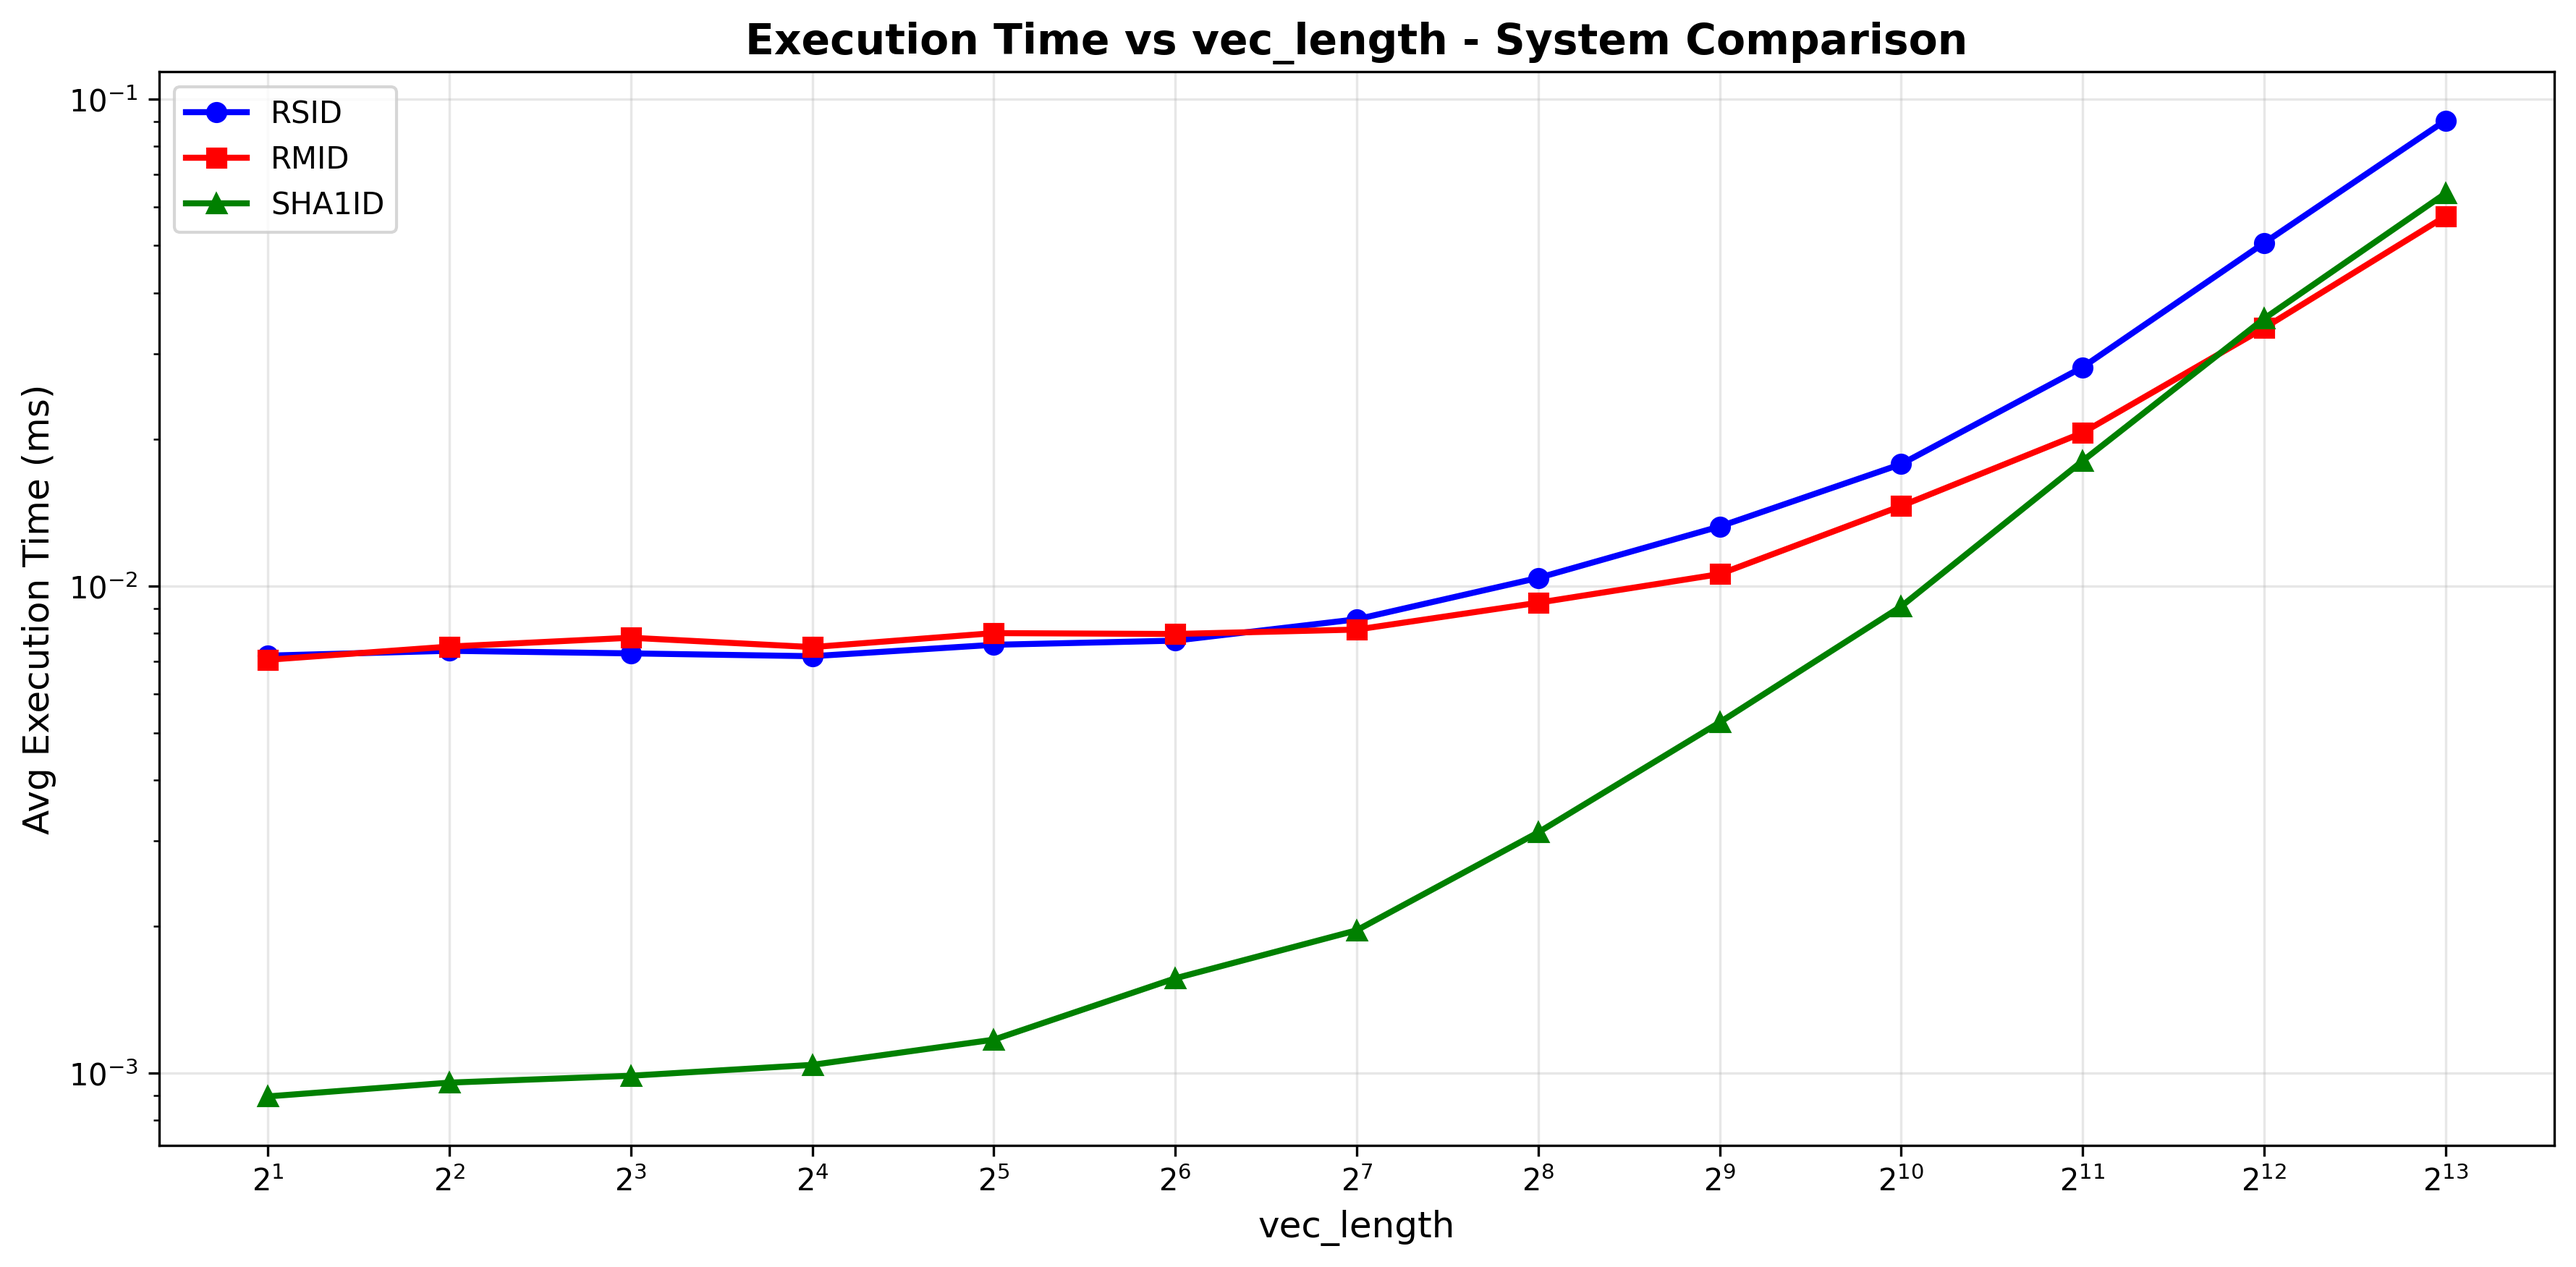
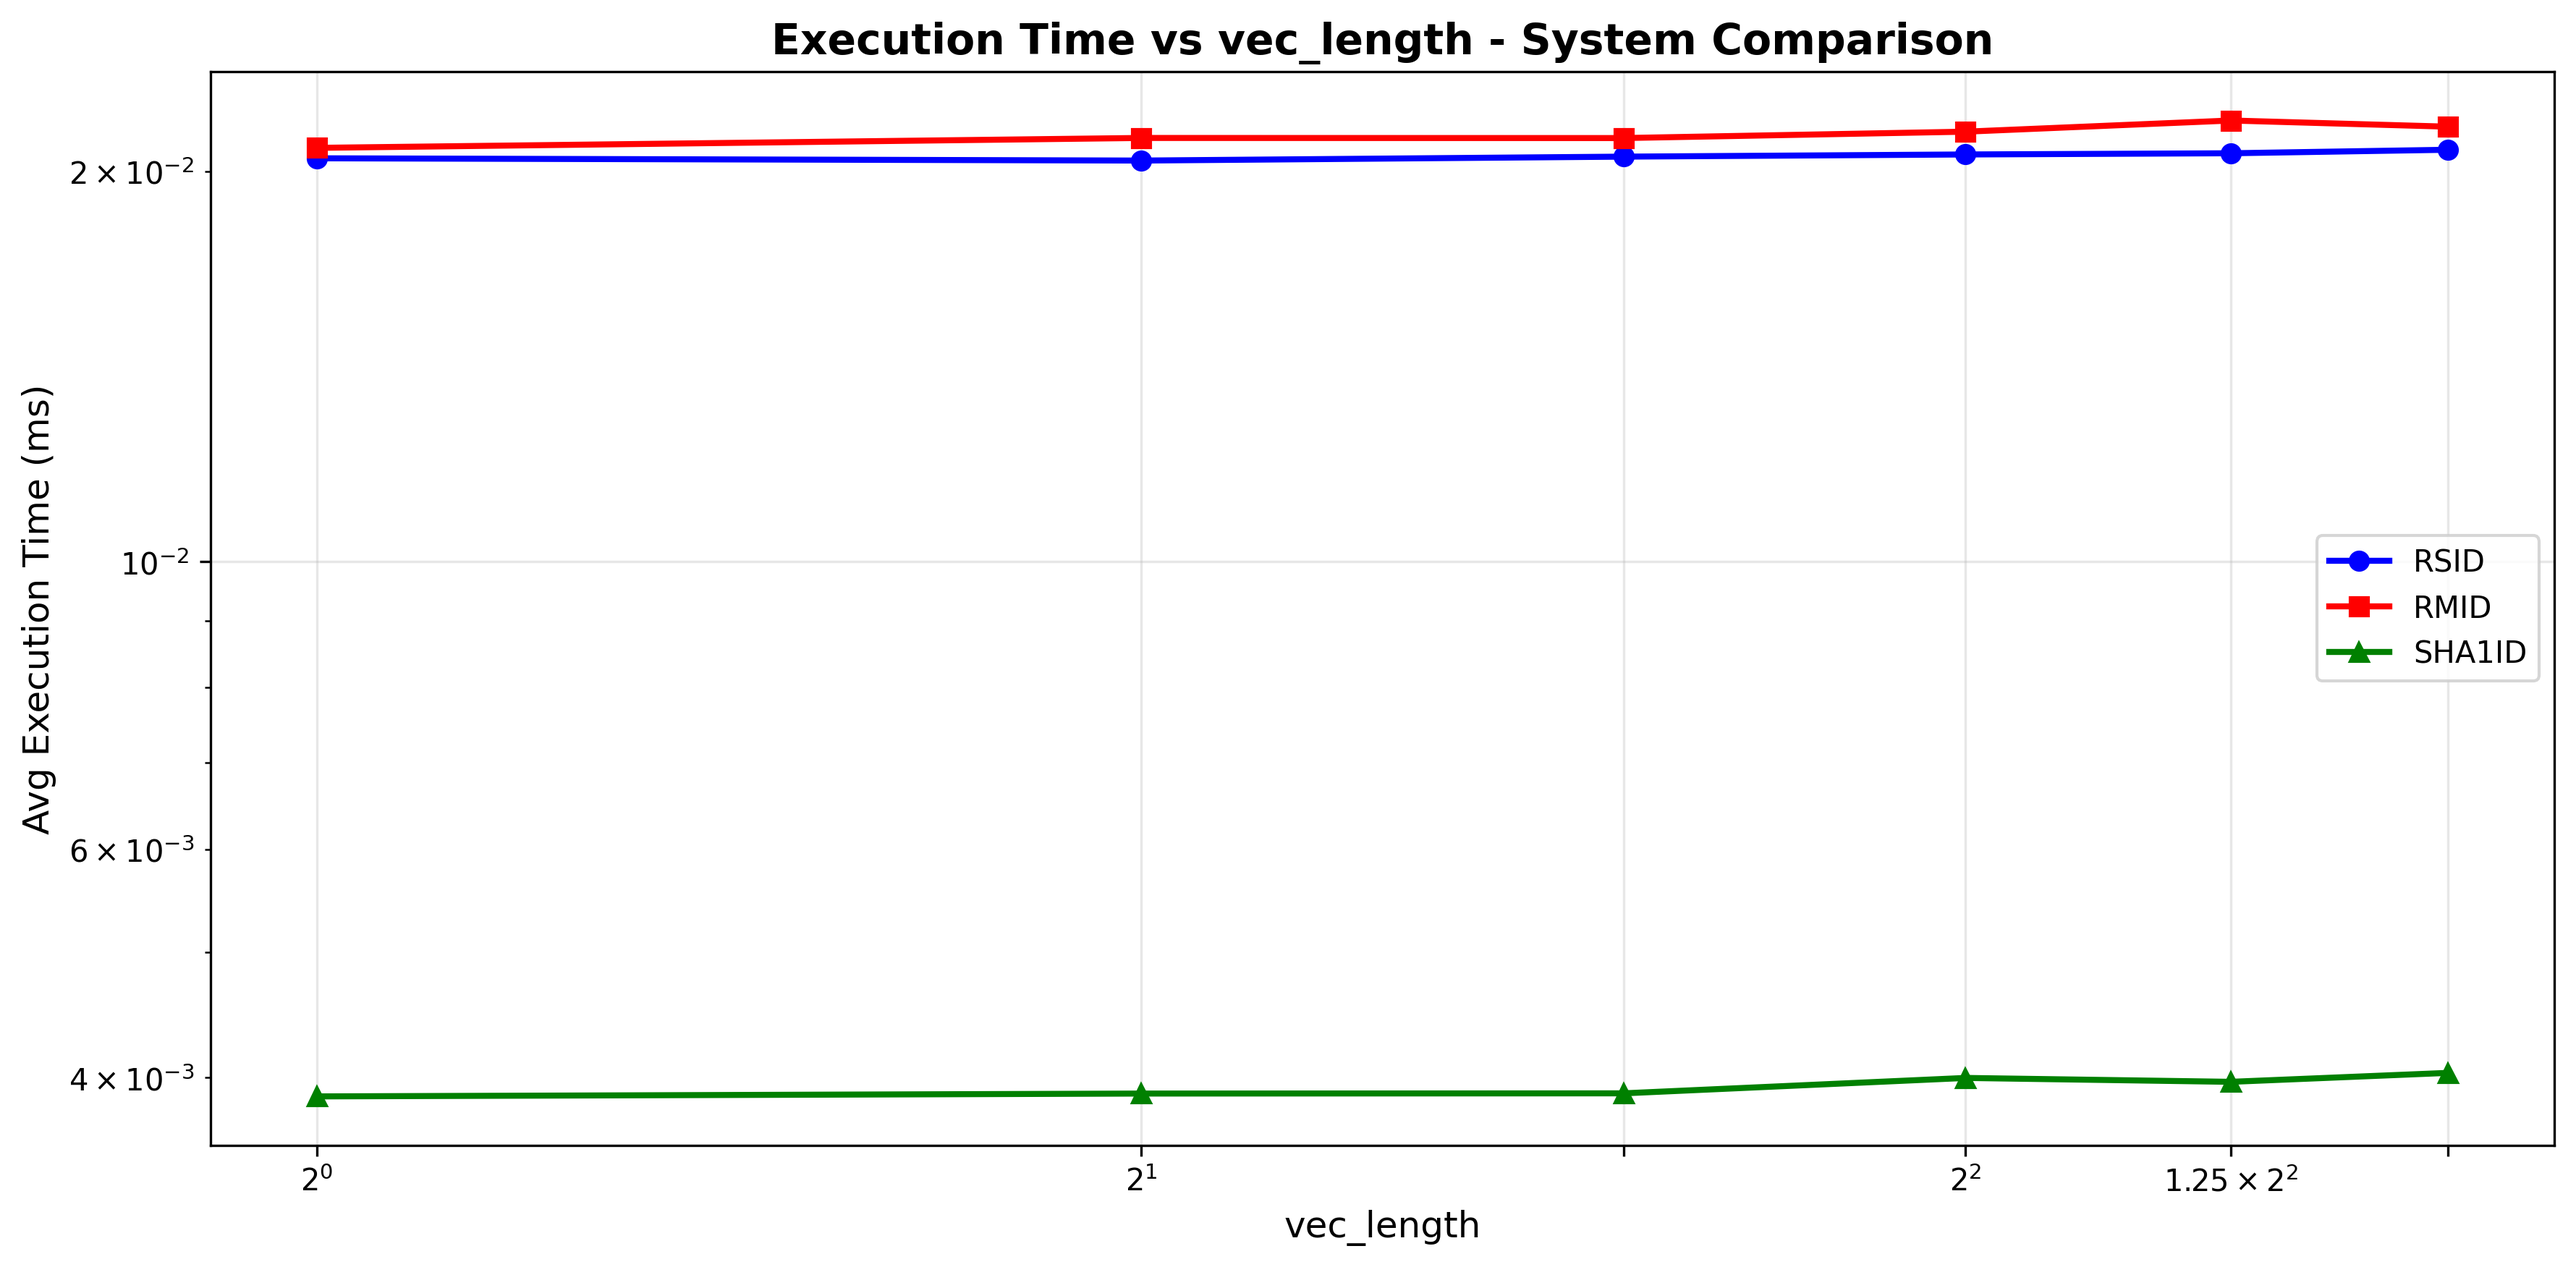
update: minor changes in parameters

diff --git a/analyses/vec_length_influence/vec_length.py b/analyses/vec_length_influence/vec_length.py
@@ -11,41 +11,37 @@ def main():
     print("=" * 50)
 
     # Range of vec_length values to test
-    vec_lengths = [2**i for i in range(1, 14)]
+    vec_lengths = [1,2,3,4,5,6]
 
     # Create systems as a dictionary for compare_systems
     systems = {
-        "RSID": lambda vec_len: create_id_system("RSID", {"gf_exp": 8, "tag_pos": 2}),
-        "RMID": lambda vec_len: create_id_system("RMID", {"gf_exp": 8, "tag_pos": 2}),
+        "RSID": lambda vec_len: create_id_system("RSID", {"gf_exp": 8, "tag_pos": [2]}),
+        "RMID": lambda vec_len: create_id_system("RMID", {"gf_exp": 8, "tag_pos": [2]}),
         "SHA1ID": lambda vec_len: create_id_system("SHA1ID", {"gf_exp": 8})
     }
 
     # Store results for each system
-    system_results = {name: {'vec_length': [], 'reliability': [], 'exec_time': [], 'code_rate': []} for name in systems.keys()}
+    system_results = {name: {'vec_length': [], 'false_positive_rate': [], 'exec_time': []} for name in systems.keys()}
 
     for vec_len in vec_lengths:
         print(f"\nEvaluating with vec_length: {vec_len}")
-        messages = generate_test_messages(vec_len=vec_len, gf_exp=8, count=1000)
         system_instances = {name: make_sys(vec_len) for name, make_sys in systems.items()}
         metrics = IdMetrics.compare_systems(
             system_instances,
-            messages,
-            num_trials=800000,
-            timing_iterations=1000,
-            p_true_positive=0.5
+            num_messages=5000000,
+            vec_len=vec_len
         )
         for system_name, system_metrics in metrics.items():
             system_results[system_name]['vec_length'].append(vec_len)
-            system_results[system_name]['reliability'].append(system_metrics["reliability"])
+            system_results[system_name]['false_positive_rate'].append(system_metrics["false_positive_rate"])
             system_results[system_name]['exec_time'].append(system_metrics["avg_execution_time_ms"])
-            system_results[system_name]['code_rate'].append(system_metrics["code_rate"])
 
     # Plot reliability vs vec_length
     plt.figure(figsize=(12, 6))
     colors = ['blue', 'red', 'green', 'orange', 'purple']
     markers = ['o', 's', '^', 'D', 'v']
     for i, (system_name, results) in enumerate(system_results.items()):
-        plt.plot(results['vec_length'], results['reliability'],
+        plt.plot(results['vec_length'], results['false_positive_rate'],
                  marker=markers[i % len(markers)],
                  color=colors[i % len(colors)],
                  label=system_name,
@@ -53,13 +49,12 @@ def main():
                  markersize=6)
     plt.title('Reliability vs vec_length - System Comparison', fontsize=14, fontweight='bold')
     plt.xlabel('vec_length', fontsize=12)
-    plt.ylabel('Reliability', fontsize=12)
-    plt.xscale('log', base=2)
+    plt.ylabel('false_positive_rate', fontsize=12)
     plt.grid(True, alpha=0.3)
     plt.legend(fontsize=10)
     plt.xticks(vec_lengths)
     plt.tight_layout()
-    plt.savefig('analyses/vec_length_influence/reliability_vs_vec_length.png', dpi=300, bbox_inches='tight')
+    plt.savefig('analyses/vec_length_influence/false_positive_rate_vs_vec_length.png', dpi=300, bbox_inches='tight')
 
     # Plot execution time vs vec_length
     plt.figure(figsize=(12, 6))
@@ -81,35 +76,15 @@ def main():
     plt.tight_layout()
     plt.savefig('analyses/vec_length_influence/exec_time_vs_vec_length.png', dpi=300, bbox_inches='tight')
 
-    # Plot code rate vs vec_length
-    plt.figure(figsize=(12, 6))
-    for i, (system_name, results) in enumerate(system_results.items()):
-        plt.plot(results['vec_length'], results['code_rate'],
-                 marker=markers[i % len(markers)],
-                 color=colors[i % len(colors)],
-                 label=system_name,
-                 linewidth=2,
-                 markersize=6)
-    plt.title('Code Rate vs vec_length - System Comparison', fontsize=14, fontweight='bold')
-    plt.xlabel('vec_length', fontsize=12)
-    plt.ylabel('Code Rate', fontsize=12)
-    plt.grid(True, alpha=0.3)
-    plt.xscale('log', base=2)
-    plt.yscale('log')
-    plt.legend(fontsize=10)
-    plt.xticks(vec_lengths)
-    plt.tight_layout()
-    plt.savefig('analyses/vec_length_influence/code_rate_vs_vec_length.png', dpi=300, bbox_inches='tight')
-
     # Print summary statistics
     print("\n" + "=" * 60)
     print("SUMMARY STATISTICS")
     print("=" * 60)
     for system_name, results in system_results.items():
-        avg_reliability = np.mean(results['reliability'])
+        avg_false_positive_rate = np.mean(results['false_positive_rate'])
         avg_exec_time = np.mean(results['exec_time'])
         avg_code_rate = np.mean(results['code_rate'])
-        print(f"{system_name:>8}: Avg Reliability = {avg_reliability:.4f}, Avg Exec Time = {avg_exec_time:.3f} ms, Avg Code Rate = {avg_code_rate:.3f}")
+        print(f"{system_name:>8}: Avg false_positive_rate = {avg_false_positive_rate:.4f}, Avg Exec Time = {avg_exec_time:.3f} ms, Avg Code Rate = {avg_code_rate:.3f}")
 
 if __name__ == "__main__":
     main()
